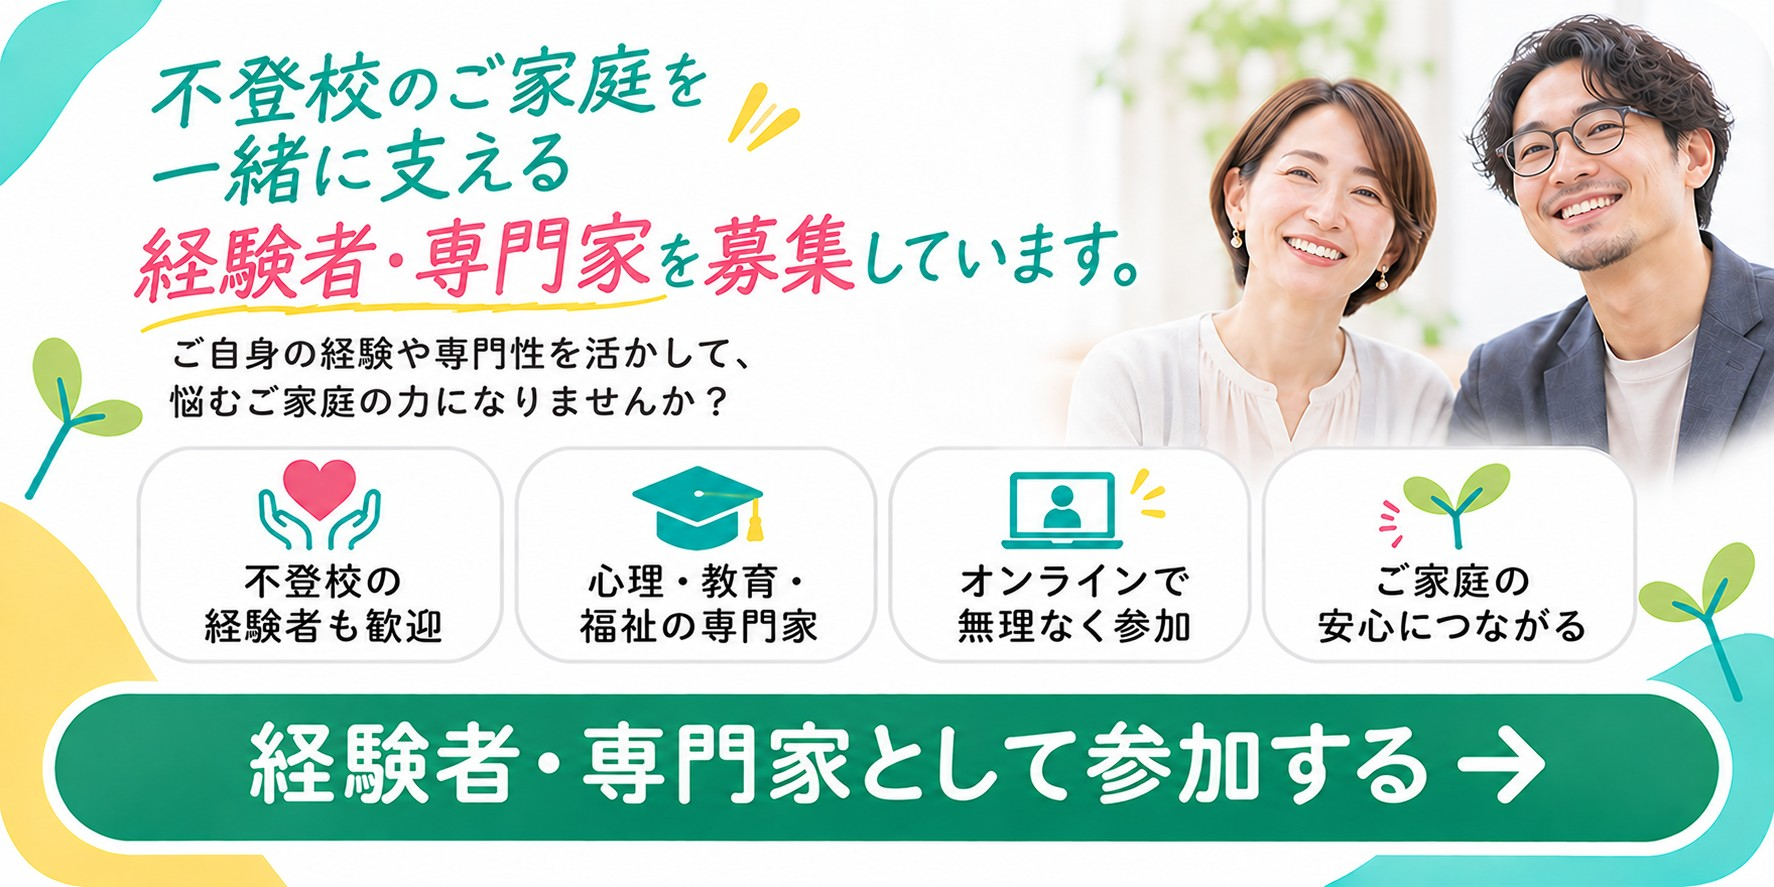
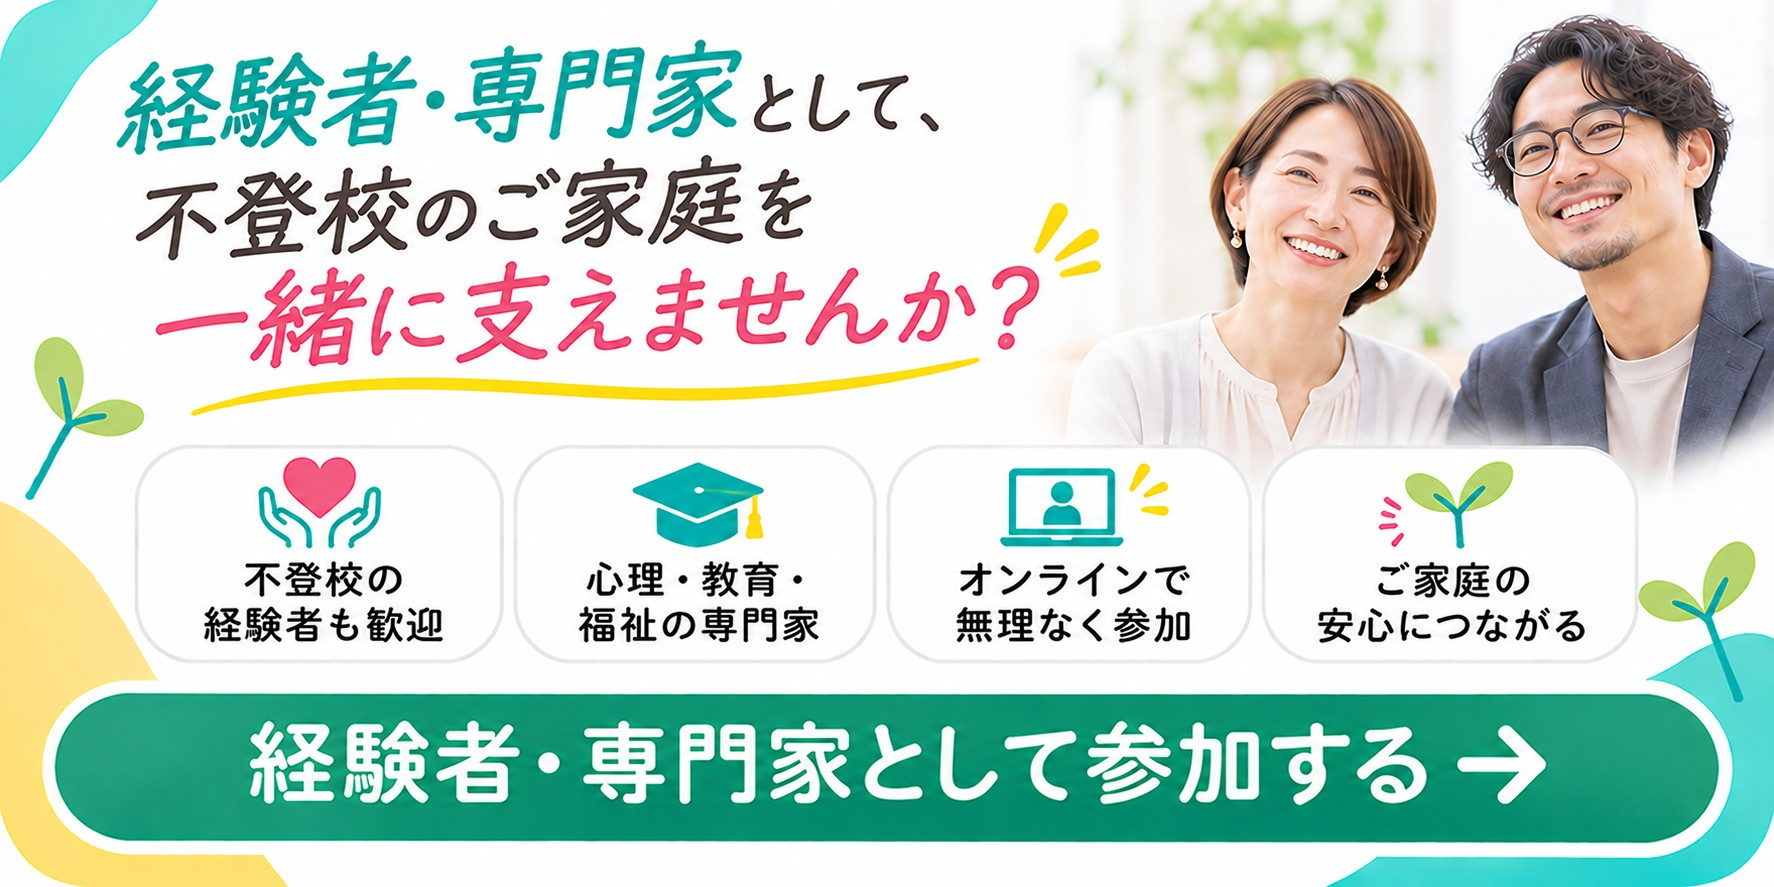
3枚目（経験者・専門家募集）バナー画像を更新
Claude-Session: https://claude.ai/code/session_01GrtDLzDT5M9GL8H3ZffAMy

diff --git a/app/HomeClient.tsx b/app/HomeClient.tsx
@@ -52,7 +52,7 @@ const HERO_SLIDES: HeroSlide[] = [
     id: 'recruit',
     href: '/expert/recruit',
     src: '/assets/home_hero_recruit.jpg',
-    alt: '不登校のご家庭を一緒に支える経験者・専門家を募集しています。ご自身の経験や専門性を活かして、悩むご家庭の力になりませんか？経験者・専門家として参加する。',
+    alt: '経験者・専門家として、不登校のご家庭を一緒に支えませんか？不登校の経験者も歓迎、心理・教育・福祉の専門家、オンラインで無理なく参加、ご家庭の安心につながる。経験者・専門家として参加する。',
   },
 ];
 
